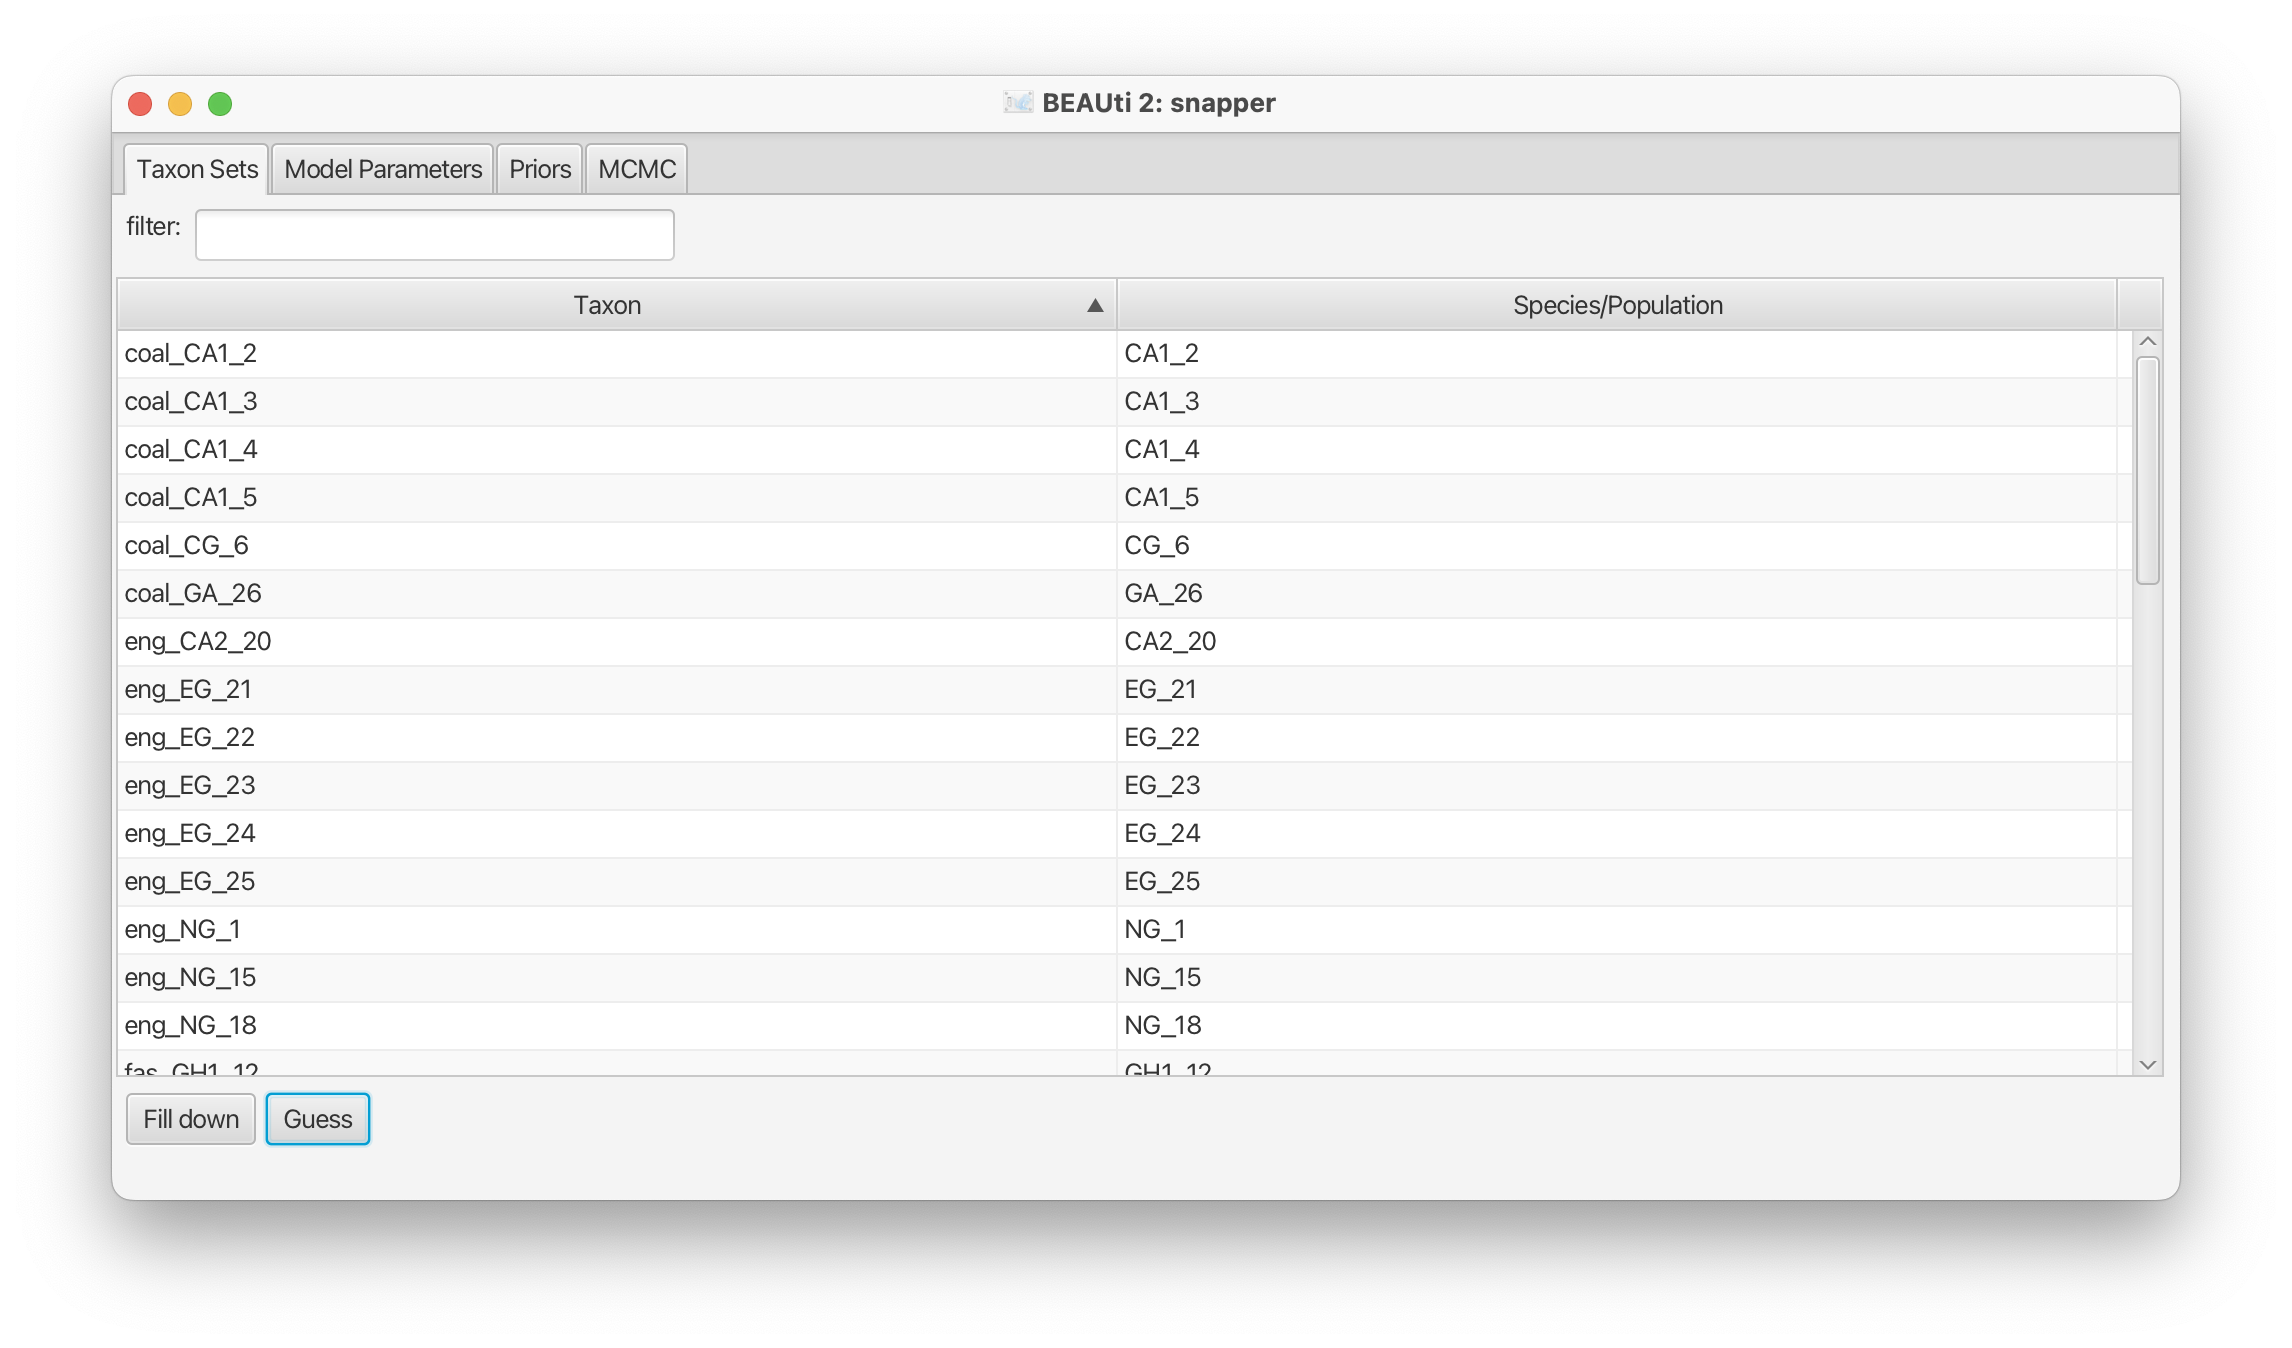
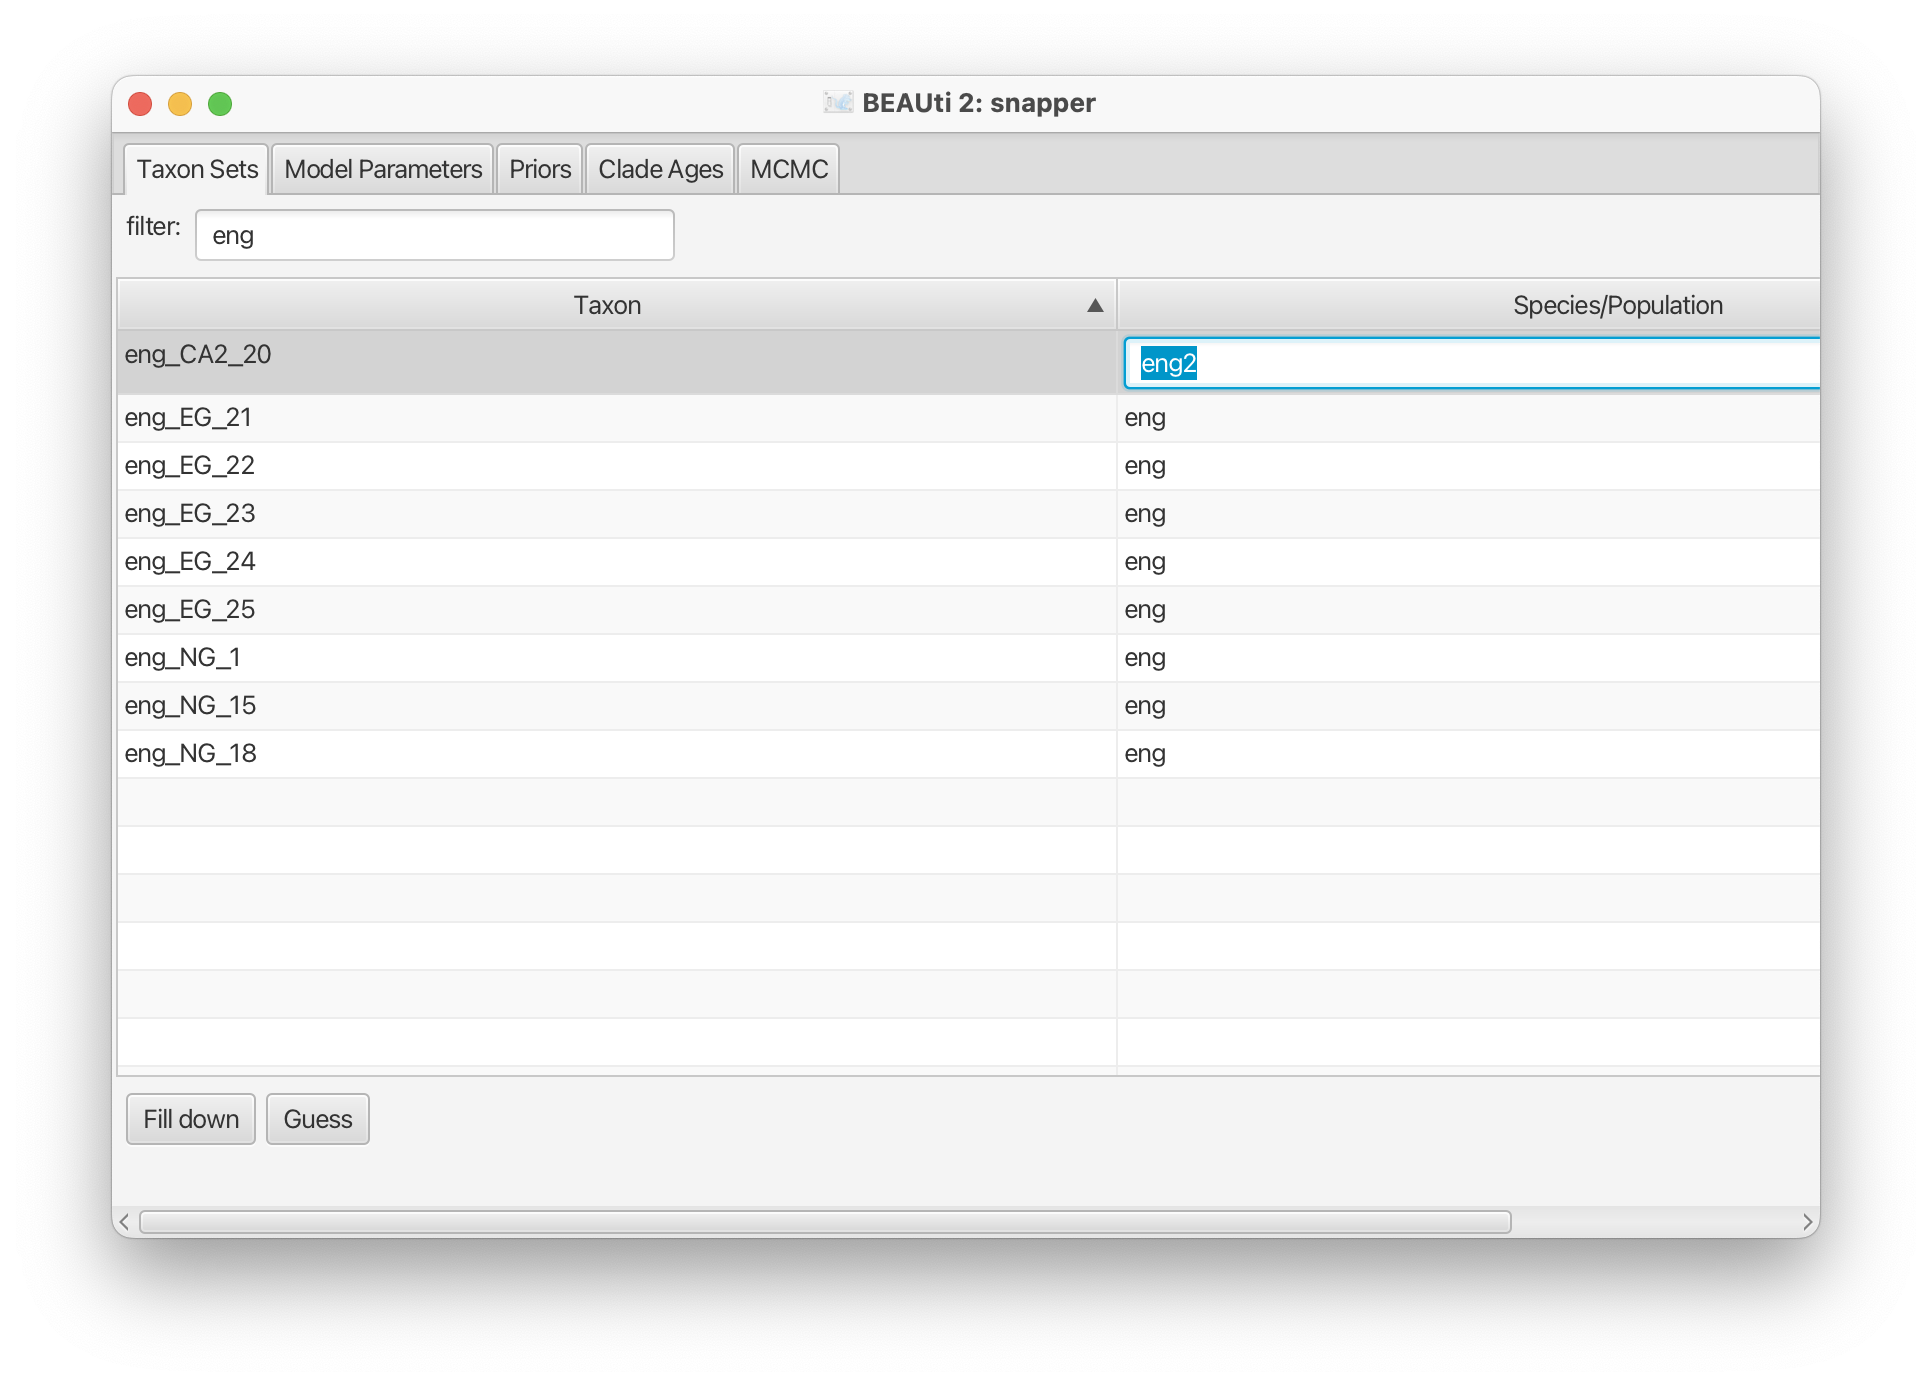
update tutorial

Changed region(s): [[0.0311, 0.0623, 0.9627, 0.9036], [0.4969, 0.405, 0.528, 0.6855], [0.4658, 0.7166, 0.528, 0.8101]]

diff --git a/tutorial/README.md b/tutorial/README.md
@@ -3,7 +3,7 @@ author: Remco Bouckaert
 level: Intermediate
 title: Speedemon tutorial
 subtitle: Species delimitation with SNP data
-beastversion: 2.7.5
+beastversion: 2.7.6
 ---
 
 # Speedemon tutorial: Species delimitation with SNP data
@@ -20,6 +20,7 @@ To identify species, we use a collapse model that groups and ungroups taxa durin
 <figure>
 	<a id="fig:gecko"></a>
 	<img style="width:95%;" src="figures/gecko.png" alt="">
+![gecko](figures/gecko.png)
 </figure>
 
 ----
@@ -28,7 +29,7 @@ To identify species, we use a collapse model that groups and ungroups taxa durin
 
 ### BEAST2 - Bayesian Evolutionary Analysis Sampling Trees 2
 
-BEAST2 is a free software package for Bayesian evolutionary analysis of molecular sequences using MCMC and strictly oriented toward inference using rooted, time-measured phylogenetic trees (Bouckaert et al, 2019). This tutorial uses the BEAST2 version 2.7.5.
+BEAST2 is a free software package for Bayesian evolutionary analysis of molecular sequences using MCMC and strictly oriented toward inference using rooted, time-measured phylogenetic trees (Bouckaert et al, 2019). This tutorial uses the BEAST2 version 2.7.6.
 
 ### BEAUti2 - Bayesian Evolutionary Analysis Utility
 
@@ -64,7 +65,9 @@ BEAUti should change to show it uses the snapper template.
 <figure>
 	<a id="fig:BEAUti1"></a>
 	<img style="width:95%;" src="figures/BEAUti-snapper.png" alt="">
+ ![BEAUti-snapper](figures/BEAUti-snapper.png)
 	<img style="width:95%;" src="figures/BEAUti-snapper2.png" alt="">
+ ![BEAUti-snapper2](figures/BEAUti-snapper2.png)
 	<figcaption>Figure 1: Select the snapper template, and BEAUti changes its appearance.</figcaption>
 </figure>
 
@@ -75,26 +78,31 @@ The partition panel now shows one entry per taxon, and a mapping to species.
 <figure>
 	<a id="fig:BEAUti2"></a>
 	<img style="width:95%;" src="figures/BEAUti-partition0.png" alt="">
+ ![BEAUti-partition0](figures/BEAUti-partition0.png)
 	<figcaption>Figure 2: After loading an alignment, BEAUti attemtps to automatically map taxa to species.</figcaption>
 </figure>
 
-By default, species are assigned to taxa, but since we want to do species delimitation, we claim to have no knowledge about the species assignments and put every taxon in its own species. This can be done as follows:
-
-> Click the `Guess` button. A dialog pops up where you can select `use everything` and keep the `after first` selection with the underscore as character to separate on.
+By default, species are assigned to taxa through some heuristic based on the taxon name.
+If you click the `Guess` button, a dialog pops up where you can formulate various rules to specify the species based on the taxon name. For example, if you click `OK` when `use everything` is selected and `after first` with the underscore as character to separate on, it puts every taxon in its own species for this analysis.
 
 <figure>
 	<a id="fig:BEAUti3"></a>
 	<img style="width:45%;" src="figures/BEAUti-guess.png" alt="">
+ ![BEAUti-guess](figures/BEAUti-guess.png)
 	<figcaption>Figure 3: There are many ways to help in mapping taxa to species based on the taxon name. This includes specifying the mapping in a text file, where the file uses one line per taxon, and the first word is the taxon name followed by a tab (not space!) followed by the species name. Here, we use the defaults.</figcaption>
 </figure>
 
+Here, we have some suspicion that the taxon labelled `eng_CA2_20` may not be an `eng` species.
 
-> Click `OK`, and the species are now uniquely assigned to taxa:
+> Search for the `eng` taxa by typing `eng` in the search box.
+> Double click the entry next to `eng_CA2_20` and add a 2, so the species is labelled `eng2`.
+> Don't forget to press `return` to confirm the edit.
 
 <figure>
 	<a id="fig:BEAUti4"></a>
 	<img style="width:95%;" src="figures/BEAUti-partition1.png" alt="">
-	<figcaption>Figure 4: Species assignment after using the species configuration option under the `Guess` button.</figcaption>
+ ![BEAUti-partition1](figures/BEAUti-partition1.png)
+	<figcaption>Figure 4: Editing the species assignment.</figcaption>
 </figure>
 
 
@@ -103,6 +111,7 @@ By default, species are assigned to taxa, but since we want to do species delimi
 <figure>
 	<a id="fig:BEAUti5"></a>
 	<img style="width:95%;" src="figures/BEAUti-model-parameters.png" alt="">
+ ![BEAUti-model-parameters](figures/BEAUti-model-parameters.png)
 	<figcaption>Figure 5: Various model parameters that can be changed.</figcaption>
 </figure>
 
@@ -124,13 +133,14 @@ The following can be changed:
 <figure>
 	<a id="fig:BEAUti6"></a>
 	<img style="width:95%;" src="figures/BEAUti-priors.png" alt="">
+ ![BEAUti-priors](figures/BEAUti-priors.png)
 	<figcaption>Figure 6: Priors panel.</figcaption>
 </figure>
 
 
 The Yule Skyline Collapse is a mixture of skyline version of Yule tree prior that integrates out birth rate parameters under a gamma prior and spike distribution on internal node heights. It has the following options:
 
-* epsilon: collapse height value below wich taxa are considered to be the same species. It may be useful to run the analysis with different values to see how sensitive the species assignments are under different settings. See section `User guide for selecting threshold ϵ` of Douglas & Bouckaert, 2022 on how to set epsilon.
+* epsilon: collapse height value below wich taxa are considered to be the same species. It may be useful to run the analysis with different values to see how sensitive the species assignments are under different settings. See section `User guide for selecting threshold &epsilon;` of Douglas & Bouckaert, 2022 on how to set epsilon.
 * weight: mixture weight between Yule and spike density. Can be estimated (recommended).
 * birth Rate Shape: Shape of the gamma prior distribution on birth rates. A value of 2 is default and is used in the literature.
 * birth Rate Rate: Rate of the gamma prior distribution on birth rates. Can be estimated (recommended).
@@ -146,6 +156,7 @@ Note that at the bottom of the screen is a button to `+ Add priors`. This allows
 <figure>
 	<a id="fig:BEAUti7"></a>
 	<img style="width:95%;" src="figures/BEAUti-mcmc.png" alt="">
+ ![BEAUti-mcmc](figures/BEAUti-mcmc.png)
 	<figcaption>Figure 7: MCMC settings.</figcaption>
 </figure>
 
@@ -155,6 +166,7 @@ Note that at the bottom of the screen is a button to `+ Add priors`. This allows
 <figure>
 	<a id="fig:BEAUti8"></a>
 	<img style="width:35%;" src="figures/BEAUti-operators.png" alt="">
+ ![BEAUti-operators](figures/BEAUti-operators.png)
 	<figcaption>Figure 8: Make operators tab visible.</figcaption>
 </figure>
 
@@ -163,6 +175,7 @@ Note that at the bottom of the screen is a button to `+ Add priors`. This allows
 <figure>
 	<a id="fig:BEAUti9"></a>
 	<img style="width:95%;" src="figures/BEAUti-operators2.png" alt="">
+ ![BEAUti-operators2](figures/BEAUti-operators2.png)
 	<figcaption>Figure 9: Change weights of gamma mover and rate mixer operators to 10.</figcaption>
 </figure>
 
@@ -229,6 +242,7 @@ Are there benefits/disadvantages of this approach over the collapse model (hint 
 <figure>
 	<a id="fig:tracer"></a>
 	<img style="width:95%;" src="figures/tracer.png" alt="">
+ ![tracer](figures/tracer.png)
 	<figcaption>Figure 10: Trace of cluster count.</figcaption>
 </figure>
 
@@ -242,6 +256,7 @@ Combining these logs is fine if you are not interested in the coalescent rates/p
 <figure>
 	<a id="fig:densitree"></a>
 	<img style="width:95%;" src="figures/densitree.png" alt="">
+ ![densitree](figures/densitree.png)
 	<figcaption>Figure 11: DensiTree of gecko analysis.</figcaption>
 </figure>
 
@@ -252,6 +267,7 @@ Combining these logs is fine if you are not interested in the coalescent rates/p
 <figure>
 	<a id="fig:applauncher"></a>
 	<img style="width:65%;" src="figures/applauncher.png" alt="">
+ ![applauncher](figures/applauncher.png)
 	<figcaption>Figure 13: BEAST application launcher.</figcaption>
 </figure>
 
@@ -263,6 +279,7 @@ Combining these logs is fine if you are not interested in the coalescent rates/p
 <figure>
 	<a id="fig:ClusterTreeSetAnalyser"></a>
 	<img style="width:65%;" src="figures/ClusterTreeSetAnalyser.png" alt="">
+ ![ClusterTreeSetAnalyser](figures/ClusterTreeSetAnalyser.png)
 	<figcaption>Figure 14: Cluster Tree Set Analyser.</figcaption>
 </figure>
 
@@ -271,6 +288,7 @@ Combining these logs is fine if you are not interested in the coalescent rates/p
 <figure>
 	<a id="fig:ClusterTreeSetAnalyser2"></a>
 	<img style="width:95%;" src="figures/ClusterTreeSetAnalyser2.png" alt="">
+ ![ClusterTreeSetAnalyser2](figures/ClusterTreeSetAnalyser2.png)
 	<figcaption>Figure 15: Cluster Tree Set Analyser output.</figcaption>
 </figure>
 
